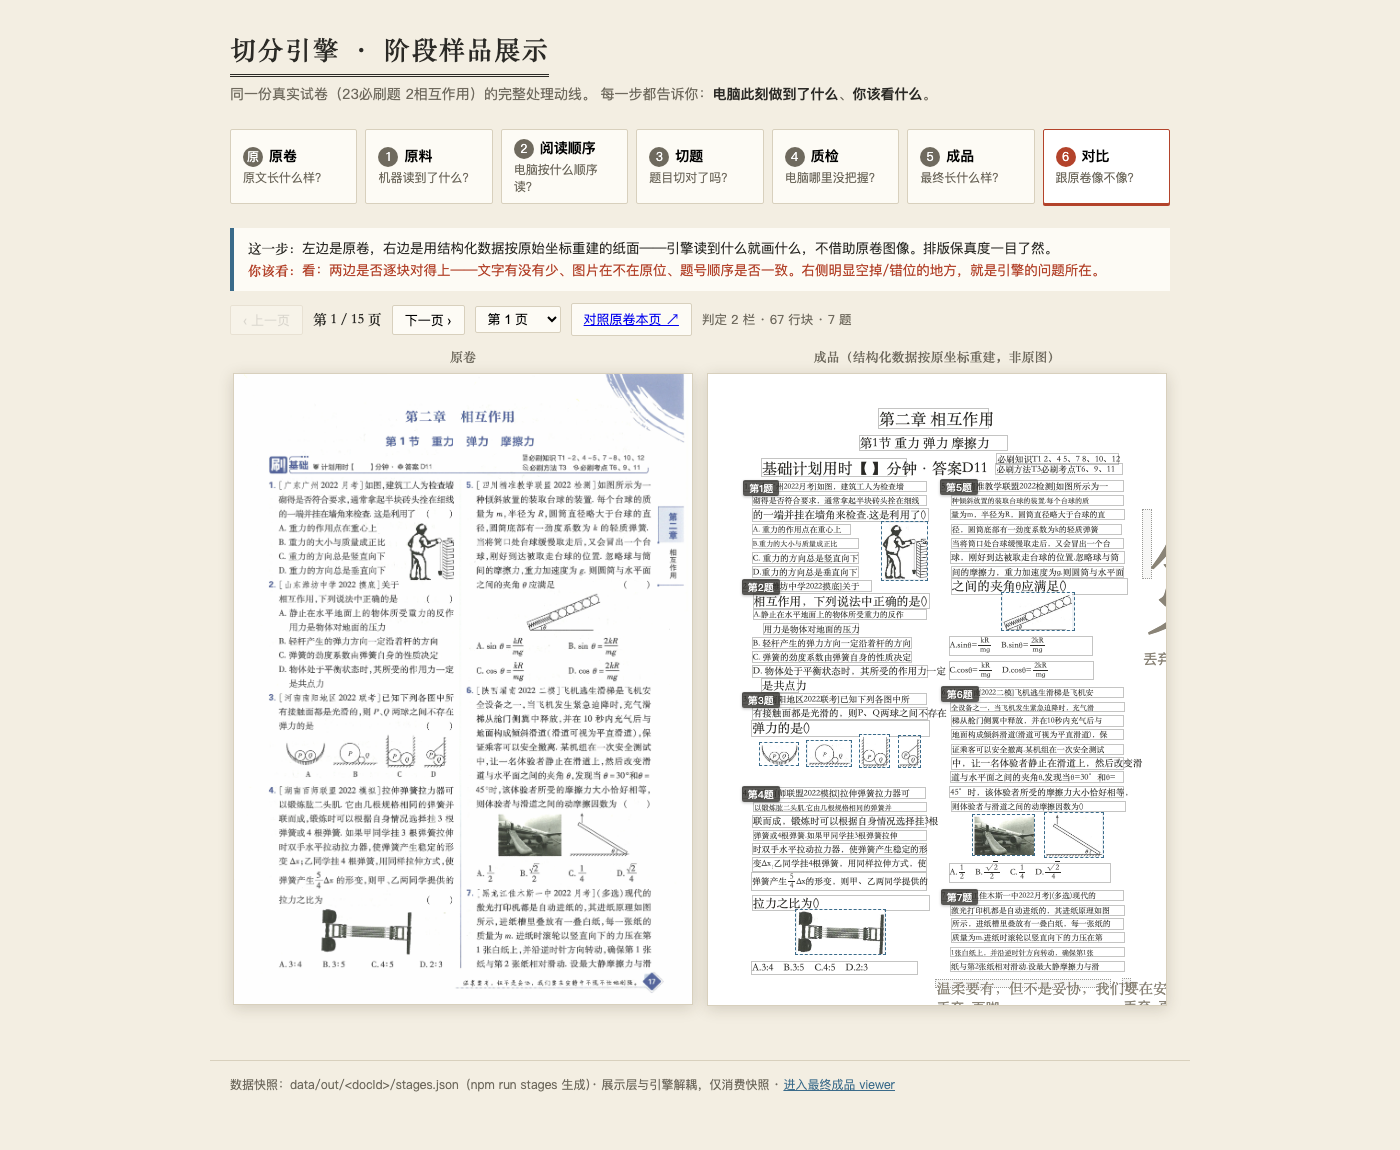
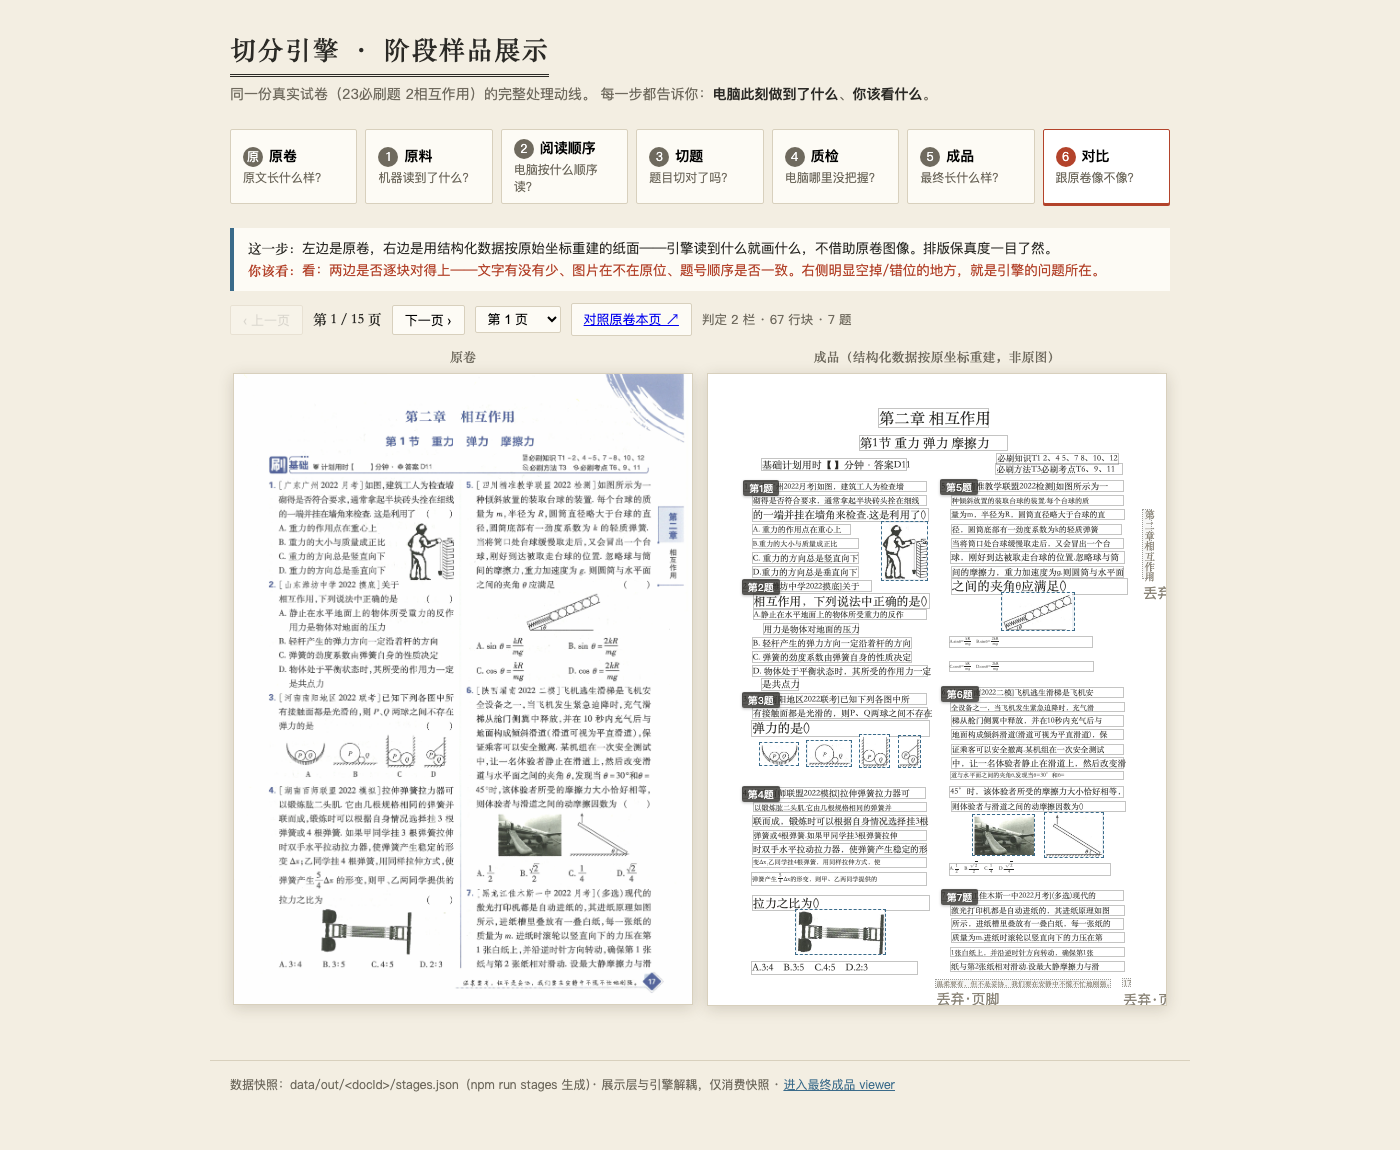
docs: 独立复审板——碰撞口径更正(11/15→6/15) + 保真度实测发现公式块被过夹(C1)
- 重拍 15 页对比截图 + 阶段 1/2/3 代表页（覆盖同名旧文件）
- 碰撞改用墨迹口径复算：同渲染下 行框22对/9页 → 墨迹14对/6页（去重10对），
  8 对为行框伪影(iy 3.1-4.6px)；Task 3 的 11/15 页作废并标注
- 保真度抽样实测：纯 CJK 被夹块 ratio 中位 1.0096（未被削）；
  但含公式块因 emWidthOf(原始 LaTeX) 比渲染文本宽 3-5× 被过夹到 0.20-0.75×基准
  （131/1015 块 <0.8×基准），交回裁定，本轮不修
- stages-review.md 更正旧结论（标注非删除）+ 追加八轮；DECISIONS.md 追加 §19

diff --git a/docs/design/stages-review.md b/docs/design/stages-review.md
@@ -245,6 +245,11 @@
 
 「碰撞」一列用 DOM 实测（文字真实范围 `Range.getBoundingClientRect()` × 其它块矩形，交叠面积 > 9px²）计数与最大面积。
 
+> ⚠ **【口径更正，2026-10-08，见八轮】** 上句的「文字真实范围 `Range.getBoundingClientRect()`」取到的是**行框**
+> （高 = `line-height` 1.15 × 字号），**不是墨迹**——行框比 CJK 墨迹高约 20%，排版完全正确时相邻行框也天然交叠
+> 4–6px，乘文字宽后轻易越过 9px² 阈值。故本表 ② 列与下文「11/15 页未通过」的**聚合结论被系统性高估**，
+> 不作为证据（旧结论保留以示来源，更正数字见八轮）。个别大面积案例（p10 标题互压、竖排侧栏溢出）在新口径下仍成立。
+
 | 页 | ① 字号 | ② 块间碰撞 | ③ 垂直基线 | ④ EM SPACE | ⑤ 分式 | ⑥ 裁切 |
 |----|--------|-----------|-----------|-----------|--------|--------|
 | 1 | ✅ 与原卷相当 | ❌ 丢弃块：竖排侧栏「第二章相互作用」119.5px 溢出栏外；页脚引文压页码 | ✅ | ✅ | ✅ | ✅ 无 |
@@ -265,7 +270,8 @@
 
 - **① 字号**：15 页**全部通过**——这是本轮修复的主目标。审计口径可判块 198 个、中位 ratio **1.0199**
   （判定区间 `[0.93, 1.07]`），基线对照 0.72 → 1.4590 报红；并排肉眼观察右栏文字高度/宽度与原卷相当。
-- **② 碰撞**：**未通过**。绝大多数碰撞**不是**常规题块本身，而是
+- **② 碰撞**：**未通过**（⚠ **此结论口径有误，已更正，见八轮**；本段保留原文以便追溯）。
+  绝大多数碰撞**不是**常规题块本身，而是
   (a) **对比模式的丢弃块**（`renderDiscardedInto` 本轮从「宽高双适配」改为「仅按行高」，且硬编码
   `CANVAS_W=760`，而对比栏宽实为 `PANE_W=460`，F10 明令勿混用 → 丢弃块字号偏大 760/460≈1.65×；
   竖排侧栏块 bbox 为 13×91pt，bboxH 是「文字长度方向」被当成行高 → 字号 119.5px，横向溢出栏外）；
@@ -300,6 +306,170 @@
 |---|------|-------------|----------------|
 | R1 | **阶段 1 段级块字号失控** | 字号最大 172.6px、文字宽 24878px vs 框 313px；`data/out/crop` 与 `stage1-raw-p0.png`；对照旧图 `data/out/old-stage1.png`（正常） | 属渲染器字号适配逻辑，非「字号保真」本任务范围；改动面大，需单独定案 |
 | R2 | **对比模式丢弃块字号过大 / 口径混用** | `renderDiscardedInto` 硬编码 `CANVAS_W=760`（栏宽 460）；竖排侧栏块字号 119.5px、溢出栏外；页眉家具行压标题/题干（p2/p4/p6/p13） | 需决定「丢弃块是否也要保真字号」与竖排块如何处理；改 `stages.js` 属再改一轮，交回裁定 |
-| R3 | **行级块文字横向溢出 / 行框交叠 → 跨块跨栏压字** | 混合 ASCII 行文字超框最多 ~132px（阶段 2/3）、~80px（对比模式）；15 页中 11 页检出碰撞 | 是否恢复宽度适配（`fitFontSize` 类）与 F6 的立论冲突，需先定案；不得为「让审板通过」而调系数/区间/权重表 |
+| R3 | **行级块文字横向溢出 / 行框交叠 → 跨块跨栏压字** | 混合 ASCII 行文字超框最多 ~132px（阶段 2/3）、~80px（对比模式）；~~15 页中 11 页检出碰撞~~ **【口径更正】**「11 页」用行框口径，系统性高估；墨迹口径更正为 **6/15 页**（见八轮） | 是否恢复宽度适配（`fitFontSize` 类）与 F6 的立论冲突，需先定案；不得为「让审板通过」而调系数/区间/权重表 |
 | R4 | **竖排（旋转）文本块无适配** | 侧栏「第二章相互作用」bbox 13×91pt，bboxH 是文字长度方向 | 需要「旋转文本」识别或按 bbox 宽推字号，属新逻辑 |
 | R5 | **审计「可判块」对上述溢出不可见** | 可判块口径**排除含 ASCII 字母数字的块**，而溢出主要发生在含 ASCII 的行；丢弃块不参与审计 | 判据口径问题，需单独定案（是否把「文字溢出 bbox」做成新判据项） |
+
+## 八轮（独立复审板：碰撞口径更正 + 保真度被夹子削掉的实测，2026-10-08）
+
+**为什么**：Task 4/5 改了渲染（R1/R2/R4 的适用边界 + R3/R5 的 `clampByWidth`），Task 3 的截图与结论全部作废；
+且碰撞口径（`Range` 行框）已被裁定为系统性高估。本轮为**独立验收**：重拍全量截图、换墨迹口径复算碰撞、
+并**首次实测**「`clampByWidth` 是否把字号削到低于原卷墨迹隐含字号」。本节的每个数字都可在 `data/out/` 的探针输出里复现。
+
+### 8.1 重拍截图（覆盖同名旧文件）
+
+15 页对比模式（`?stage=6&page=N`）+ 阶段 1/2/3 代表页，时间戳 **2026-10-08 15:22–15:23**，
+晚于最后一次代码改动（`4a8a1a8`，15:19:43）：
+
+| 文件 | 状态 |
+|------|------|
+| `docs/design/stages-cap/pages/compare-p0..14.png` | ✅ 15/15 重拍 |
+| `docs/design/stages-cap/stage1-raw-p0.png` | ✅ 重拍（R1 修复后：**不再有 172.6px 巨字**，按框宽适配生效） |
+| `docs/design/stages-cap/stage2-order-p0.png` | ✅ 重拍 |
+| `docs/design/stages-cap/stage3-seg-p0.png` | ✅ 重拍 |
+
+### 8.2 碰撞口径更正（本节的核心更正）
+
+**旧口径**（Task 3）：`Range.getBoundingClientRect()` = **行框**（高 = `line-height` 1.15 × 字号），
+× 其它块矩形，阈值 `ix>3 && iy>3`（= 交叠 > 9px²）。
+**新口径**：文字**真实墨迹**包围盒（canvas `measureText` 的 `actualBoundingBoxAscent/Descent/Left/Right`，
+按基线在行框内的位置换算到页面坐标）× 其它块矩形，**同一阈值**（只隔离「口径」这一项变量）。
+探针 `data/out/probe-collide-ink.html`（新）/ `probe-collide-line.html`（旧），原始输出 `data/out/_t6-col-{ink,line}-*.json`。
+
+**逐页对照（旧计数=Task 3 原文；后两列=本轮在同一份当前渲染上并跑两口径）**：
+
+| 页 | 旧计数（Task 3，行框口径·旧渲染） | 旧口径复跑（行框·当前渲染） | **新口径（墨迹·当前渲染）** | 新口径碰撞对（去重） |
+|----|----|----|----|----|
+| 1 | ❌ 竖排侧栏溢出/页脚压页码 | 0 | **0** | — |
+| 2 | ⚠ 3 对 | 1 | **1** | `U` × 图片块 |
+| 3 | ❌ 766px² | 1 | **0** | — |
+| 4 | ⚠ 1 对 | 0 | **0** | — |
+| 5 | ❌ 766 / 454px² | 2 | **2** | 页眉家具行「必刷知识…」× 选项「A. 增大F2…」 |
+| 6 | ⚠ 1 对 | 0 | **0** | — |
+| 7 | ❌ 799 / 670px² | 1 | **0** | — |
+| 8 | ⚠ 1 对 | 0 | **0** | — |
+| 9 | ❌ 970 / 552px² | 2 | **2** | 常规行互压「增大，杆的压力F大小不变」×「D. 绳a的拉力…」 |
+| 10 | ❌ 657px²（标题互压，肉眼可见） | 4 | **2** | 标题「专题 连接体动态平衡问题」× 邻行 |
+| 11 | ❌ 10 对，max 1818px² | 5 | **4** | 页眉家具行 × 题干；两处文字 × 图片块 |
+| 12 | ❌ 8 对，max 1188px² | 5 | **3** | 三处文字 × 图片块 |
+| 13 | ⚠ 1 对 | 0 | **0** | — |
+| 14 | ❌ 835px² | 0 | **0** | — |
+| 15 | ❌ 9 对，max 375px² | 1 | **0** | — |
+| **合计** | **11/15 页**（原文「未通过」） | **22 对 / 9 页** | **14 对 / 6 页**（去重 10 对） | |
+
+**高估了多少、来自哪一部分（分解，直说）**：
+
+1. **口径本身**造成的高估——在**同一份当前渲染**上，行框口径报 **22 对 / 9 页**，墨迹口径报 **14 对 / 6 页**：
+   **多报 8 对（+57%）、多报 3 页**。这 8 对**全部**是 `iy ∈ [3.1, 4.6]px` 的微小竖直交叠
+   （p3「下列说法正确的是()」、p7「必刷方法…」、p10 标题×两行、p11 一处、p12 两处、p15 一对选项行），
+   正是「行框比墨迹高约 20%（1.15em vs 0.96em）→ 排版正确时相邻行框天然交叠 4–6px」的伪影——
+   与裁定文本的预测完全一致。**这 8 对是纯口径噪声，不是真实压字。**
+2. **渲染修复**带来的下降——Task 3 的 11/15 是在 Task 4/5 **之前**的渲染上测的（含 R1 段级块 172.6px、
+   R2 丢弃块 1.65× 口径混用、R4 竖排块 119.5px）；这些最严重的碰撞已被 Task 4/5 修掉。
+3. **更正后的结论**：当前渲染下，墨迹口径 **6/15 页**有碰撞（去重 **10 对**）：
+   **图片块上的文字标签 6 对**（p2/p11/p12，原卷该处文字本就与图并列，属「文字框与图片框相邻」而非排版错）、
+   **页眉家具行压邻行 2 对**（p5/p11，MinerU 家具行去留不稳 + 行高模型过冲）、
+   **真·行间互压 1 对**（p9「D.绳a…」文本重复粘连，数据缺陷）、
+   **标题压邻行 1 对**（p10「专题 连接体动态平衡问题」，肉眼可见，与 Task 3 判定一致）。
+
+### 8.3 保真度是否被 `clampByWidth` 削掉——**抽样实测（首次做）**
+
+**方法**：`clampByWidth` 对 **441/964 = 45.75%** 的行级块生效（本轮复算确认）。
+沿用 `data/out/ink-groundtruth.md` 的二值化方法（原卷页图 → bbox 外扩 6px → 灰度<128 二值化 → 墨迹包围盒），
+量出每块**原卷墨迹隐含字号** `S_ink = 墨迹宽 / 全角字数`（F2 定义）；渲染字号取真实模块
+`fontForBlock`/`clampByWidth`（与浏览器同一代码路径，对比栏口径 PANE_W=460）。
+`ratio = 渲染字号(pt) / 原卷墨迹隐含字号(pt)`。
+**独立证据**：重跑墨迹探针 `_t6-ink-fresh.json` 与既有 `_probe-ink-out.json` **逐字节一致**（输入未变，复用有效）。
+输出：`data/out/_t6-fidelity.json`、`_t6-emraw.json`、`_t6-fonts-summary.json`。
+
+**结果一（按 F2 有效估计量的子群）**：
+
+| 子群 | n | p10 | **p50** | p90 | min | <0.95 |
+|------|---|-----|---------|-----|-----|-------|
+| 纯 CJK（`emWidthOf==全角字数`，N≥8）全部 | 124 | 0.897 | **1.0011** | 1.012 | 0.778 | 31 |
+| 纯 CJK **被夹**块 | 45 | 1.004 | **1.0096** | 1.019 | **1.001** | **0** |
+| 纯 CJK 未夹块（对照） | 79 | 0.879 | 0.9578 | 1.005 | 0.778 | 31 |
+
+→ **对纯 CJK 正文行，`clampByWidth` 没有削保真**：被夹块 ratio 中位 **1.0096**、**无一 <0.95**（实际略 >1，
+因夹后文字恰填 bbox，而 bbox 略宽于墨迹）。**「夹子削掉纯 CJK 保真」的担忧不成立。**
+
+**结果二（含公式/ASCII 的块）——发现真实缺陷**：
+把所有文本块按 `ratio` 汇总，中位仅 **0.856**（<0.95）。追因后**不是**「夹子把所有块都削了」，
+而是 **`clampByWidth` 把 `emWidthOf` 喂给了「原始 LaTeX 文本」而非「渲染后文本」**：
+
+- `emWidthOf(raw) > 1.2 × emWidthOf(渲染文本)` 的块 **158 个（16.4%）**；
+- 被 `clampByWidth` **缩小 >1.3×** 的块 **142 个**，其中 `emRaw > 1.2×emRen` 的占绝大多数；
+- 典型（`data/out/_t6-emraw.json`）：
+
+| 页 | raw 文本 | 渲染文本 | emRaw/emRen | 基准字号→夹后 | 缩小 |
+|----|---------|---------|-------------|--------------|------|
+| p11 blocks[24] | `{ \frac { \sqrt { 3 } } { 3 } } m g` | `√33mg` | 12.25 / 3.0 = **4.08×** | 8.74px → **1.76px** | **4.96×** |
+| p5 blocks[6] | `{ \frac { 5 } { 8 } } G` | `58G` | 7.85 / 1.5 = **5.23×** | 8.74px → **1.87px** | **4.68×** |
+| p6 blocks[10] | `A.$\frac{m_a}{m_b}=\frac{\sin\alpha}{\sin\beta}$…` | `A.mamb=sinβsinα…` | 56.6 / 17.2 = 3.29× | 8.74px → 2.52px | 3.47× |
+
+- **DOM 实测（全 15 页，`probe-fonts.html`）**：1015 个文本块中 **131 个（12.91%）字号 < 0.8× 基准**，
+  **62 个 < 0.6× 基准**；这些块的**文字墨迹只填满 bbox 宽的 0.21–0.75**（若夹子正确应 ≈1.0），
+  101/131 含数学符号或紧凑字母数字（即公式选项行）。最极端 `p11「√33mg」= 1.76px = 基准的 0.20×`。
+
+**结论（直说，不替它辩解）**：
+`clampByWidth` 的**意图**（行高模型在个别行过冲时压住横向溢出）对纯 CJK 是对的；
+但它的**实现**用 `emWidthOf(block.text)` 度量的是**原始 LaTeX 源码**的当量宽（如 `\frac{\sqrt3}{3}mg` 记 12.25em），
+而实际渲染的是美化后的短文本（`√33mg`，3em）。两者相差 **3–5×** ⇒ 对**含公式的块**，夹子把字号压到
+**基准的 0.20–0.75 倍**，公式选项行小到几乎不可读。这是 Task 5（`clampByWidth`）引入的**真实回归**，
+且因审计「可判块」口径排除了 `\`/`$`/ASCII，**判定项看不见它**（`npm run check` 全绿）。
+**本轮不修**（简报硬约束：不得改 `clampByWidth`），**如实报告、交回裁定**。
+
+### 8.4 逐页 6 项审板（15 页）
+
+对照：左 = 原卷页图，右 = 结构化重建（`?stage=6&page=N`）。判据同 Task 3：
+① 字号肉眼一致 ② 块间碰撞（8.2 的墨迹口径）③ 垂直基线 ④ EM SPACE 分隔 ⑤ 竖排分式 ⑥ 文字裁切（G1）。
+
+| 页 | ① 字号 | ② 碰撞（墨迹口径） | ③ 垂直基线 | ④ EM SPACE | ⑤ 竖排分式 | ⑥ 裁切 |
+|----|--------|-------------------|-----------|-----------|-----------|--------|
+| 1 | ✅ 纯 CJK 与原卷相当 | ✅ 无 | ✅ | ✅ | ✅ 竖排侧栏「第1节 重力 弹力 摩擦力」竖叠正常 | ✅ 无 |
+| 2 | ✅（公式选项行偏小，见 8.3） | ⚠ 1 对（`U` 标签 × 图片块） | ✅ | ✅ `A.0.20 B.0.30 / C.0.35 D.0.45` 分隔清晰 | ✅ 第 11 题 `\frac` 竖排正常 | ✅ 无 |
+| 3 | ✅ | ✅ 无 | ✅ | ✅ | ✅ | ✅ 无 |
+| 4 | ✅ | ✅ 无 | ✅ | ✅ | ✅ | ✅ 无 |
+| 5 | ✅（公式选项行偏小） | ⚠ 2 对（页眉家具行 × 选项行） | ✅ | ✅ | ✅ | ✅ 无 |
+| 6 | ✅（公式选项行偏小） | ✅ 无 | ✅ | ✅ | ✅ | ✅ 无 |
+| 7 | ✅（公式选项行偏小） | ✅ 无 | ✅ | ✅ | ✅ | ✅ 无 |
+| 8 | ✅ | ✅ 无 | ✅ | ✅ | ✅ | ✅ 无 |
+| 9 | ✅ | ⚠ 2 对（文本重复粘连行互压） | ✅ | ✅ | ✅ | ✅ 无 |
+| 10 | ✅（公式选项行偏小） | ⚠ 2 对（标题「专题 连接体动态平衡问题」压邻行，肉眼可见） | ✅ | ✅ | ✅ | ✅ 无 |
+| 11 | ✅（公式选项行偏小） | ⚠ 4 对（页眉家具行 × 题干；文字 × 图片块 ×2） | ✅ | ✅ | ✅ | ✅ 无 |
+| 12 | ✅（公式选项行偏小） | ⚠ 3 对（文字 × 图片块） | ✅ | ✅ | ✅ | ✅ 无 |
+| 13 | ✅（公式选项行偏小） | ✅ 无 | ✅ | ✅ | ✅ | ✅ 无 |
+| 14 | ✅（公式选项行偏小） | ✅ 无 | ✅ | ✅ | ✅ | ✅ 无 |
+| 15 | ✅（公式选项行偏小） | ✅ 无 | ✅ | ✅ | ✅ | ✅ 无 |
+
+- **① 字号**：纯 CJK 正文行**通过**（§8.3 结果一，ratio 中位 1.0011；审计可判块 198 个中位 1.0199）；
+  但**含公式的选项行 131 个块被夹到基准的 0.20–0.80 倍**（§8.3 结果二）——主目标在「公式行」这一子群上**未达成**。
+- **② 碰撞**：更正为 **6/15 页**（§8.2），残留碰撞以「文字标签×图片块」「页眉家具行×邻行」为主。
+- **③ 垂直基线**：无整体偏高/偏低；行框（`line-height:1.15`）比墨迹高约 20%，但文字在框内大致居中。
+- **④ EM SPACE**：正常。第 2 页 `A.0.20 B.0.30 / C.0.35 D.0.45` 分隔清晰（放大图 `data/out/_t6-zoom-p1.png`）。
+- **⑤ 竖排分式**：正常。第 2 页第 11 题 `\frac` 分子/分母/横线齐全；竖排侧栏块改用 `writing-mode: vertical-rl` 后不再溢出栏外。
+- **⑥ 裁切**：无。`.blk` 与 `.txt` 均 `overflow: visible`，未观察到文字被裁。
+
+### 8.5 阶段 1/2/3 代表页
+
+| 截图 | 结论 |
+|------|------|
+| `stage1-raw-p0.png` | ✅ **R1 已修复**：段级块改用「按框宽适配」（`fontForRawBlock`），**不再有 172.6px 巨字**；整段被框住、图片框就位、竖排侧栏正常 |
+| `stage2-order-p0.png` | ✅ 行级块字号正常、可读；阅读顺序编号 1→…顺走；分栏着色/界线正常 |
+| `stage3-seg-p0.png` | ✅ 题号牌、蓝/灰框、跨栏挂牌正常 |
+
+### 8.6 `.blk { overflow: visible }` 的去留结论（本轮重申）
+
+**保留 `visible`**。理由同七轮，且本轮证据更硬：本轮观察到的所有字号/溢出问题**都不是 `visible` 造成的**
+（纯 CJK 不溢出；公式行是**被夹得过小**、填不满框，与 `overflow` 方向相反）。改成 `hidden` 只会把
+任何残留溢出变成**看不见的静默截断**（违反 G1）。**维持 `visible`。**
+
+### 8.7 残留问题（本轮如实记录，均不修，交回裁定）
+
+| # | 问题 | 现象 / 证据 | 为什么本轮不修 |
+|---|------|-------------|----------------|
+| C1 | **`clampByWidth` 对含公式的块过夹**（本轮新发现，最重要） | 131/1015 块字号 < 0.8× 基准、62 块 < 0.6×；最极端 1.76px（基准 0.20×）；根因 `emWidthOf(原始 LaTeX)` 比渲染文本宽 3–5×；证据 `data/out/_t6-emraw.json`、`_t6-fonts-summary.json`、`_t6-zoom-p1.png` | 简报硬约束禁止改 `clampByWidth`；须由裁定决定改法（如按渲染后文本度量） |
+| C2 | **审计判定项看不见 C1** | 「字号保真度」可判块排除 `\`/`$`/ASCII，公式块不入选；`npm run check` 全绿 | 判据口径问题，需单独定案 |
+| C3 | **残留 6 页碰撞** | 文字×图片块 6 对、页眉家具行×邻行 2 对、文本重复粘连 1 对、标题压邻行 1 对（§8.2，去重共 10 对） | 多为上游数据/家具行问题，非本轮范围 |
+| C4 | **`raw` 段级块「宽度上限触发率」95.96%** | 审计提示项：198 个 raw 块中 190 个的高度模型字号被框宽压小（量纲不同，`fontForRawBlock` 本就取 min） | 阶段 1 定位是「看框对不对」不是「看文字保真」，提示项只展示 |
+| C5 | **丢弃块「宽度上限触发率」76.74%** | 审计提示项 | 丢弃块含页眉页脚家具行，属上游噪声，只展示 |
